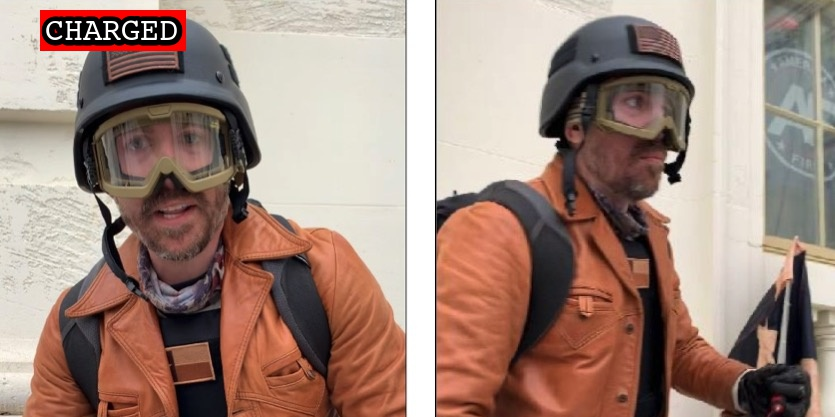
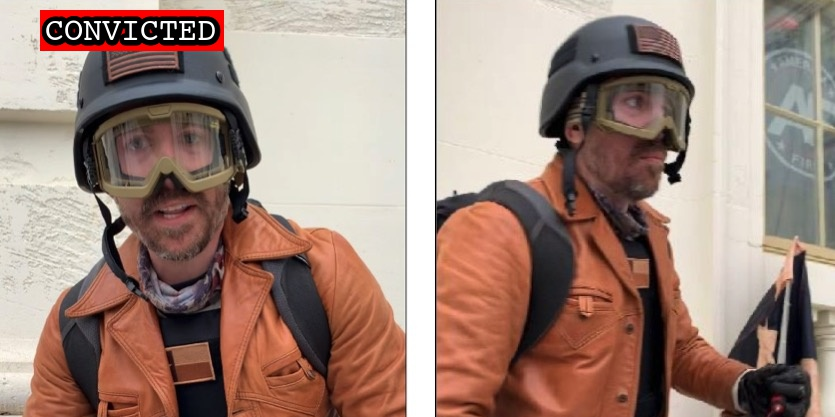
Latest import

Changed region(s): [[0.0623, 0.0, 0.2802, 0.1247]]

diff --git a/docs/_suspects/geoffrey-shough.md b/docs/_suspects/geoffrey-shough.md
@@ -4,15 +4,17 @@ lastName: Shough
 hashtag: TexasPleather
 aka:
 residence: Texas
-status: Charged
+status: Convicted
 date: 2022-02-17
 charged: 2022-02-17
-indicted:
-convicted:
+indicted: 2022-06-01
+convicted: 2022-08-16
+acquitted:
 sentenced:
 dismissed:
 deceased:
 plea_hearing: 2022-08-16
+trial_date:
 sentencing:
 age: 37
 occupation:
@@ -31,12 +33,19 @@ description: Click for latest case details. Suspects innocent until proven guilt
 author: seditiontrack
 layout: suspect
 published: true
-caseNumber: 1:22-mj-30
+caseNumber: 1:22-cr-197
 videos:
 charges:
+  - code: 18 USC § 231(a)(3)
+    title: Obstruction of Law Enforcement During Civil Disorder
+    url: https://www.law.cornell.edu/uscode/text/18/231
+    felony: true
 sentence:
 ---
 
 - [News Report](https://www.newsweek.com/man-arrested-alleged-role-capitol-riot-after-ex-outs-him-fbi-1683868)
 - [Complaint](https://www.justice.gov/usao-dc/case-multi-defendant/file/1479011/download)
 - [Statement of Facts](https://www.justice.gov/usao-dc/case-multi-defendant/file/1479016/download)
+- [Indictment](https://www.justice.gov/usao-dc/case-multi-defendant/file/1526846/download)
+- [Plea Agreement](https://www.justice.gov/usao-dc/case-multi-defendant/file/1526851/download)
+- [Statement of Offense](https://www.justice.gov/usao-dc/case-multi-defendant/file/1526856/download)

diff --git a/docs/_suspects/antonio-lamotta.md b/docs/_suspects/antonio-lamotta.md
@@ -1,0 +1,43 @@
+---
+name: Antonio Lamotta
+lastName: Lamotta
+hashtag:
+aka:
+residence:
+status: Charged
+date: 2022-08-08
+charged: 2022-08-08
+indicted:
+convicted:
+acquitted:
+sentenced:
+dismissed:
+deceased:
+plea_hearing:
+trial_date:
+sentencing:
+age:
+occupation:
+affiliations:
+jurisdiction: Federal
+image: /images/preview/antonio-lamotta.jpg
+suspect: antonio-lamotta.jpg
+booking:
+courtroom:
+courthouse:
+raid:
+perpwalk:
+quote:
+title: Antonio Lamotta charged on August 8th, 2022
+description: Click for latest case details. Suspects innocent until proven guilty.
+author: seditiontrack
+layout: suspect
+published: false
+caseNumber: 1:22-mj-177
+videos:
+charges:
+sentence:
+---
+- [News Report]()
+- [Complaint](https://www.justice.gov/usao-dc/case-multi-defendant/file/1526736/download)
+- [Statement of Facts](https://www.justice.gov/usao-dc/case-multi-defendant/file/1526741/download)

diff --git a/docs/_suspects/nicholas-lattanzi.md b/docs/_suspects/nicholas-lattanzi.md
@@ -12,7 +12,7 @@ convicted:
 sentenced:
 dismissed:
 deceased:
-plea_hearing:
+plea_hearing: 2022-08-30
 sentencing:
 age:
 occupation:
@@ -25,7 +25,7 @@ courtroom:
 courthouse:
 raid:
 perpwalk:
-quote: 'New jacket who wants to commit war crimes in Bosnia with me?'
+quote: "New jacket who wants to commit war crimes in Bosnia with me?"
 title: Nicholas Lattanzi charged on January 10, 2022
 description: Click for latest case details. Suspects innocent until proven guilty.
 author: seditiontrack
@@ -36,5 +36,6 @@ videos:
 charges:
 sentence:
 ---
+
 - [News Report](https://www.rawstory.com/capitol-riot-arrests-2656379230/)
 - [Statement of Facts](https://www.justice.gov/usao-dc/case-multi-defendant/file/1481341/download)
